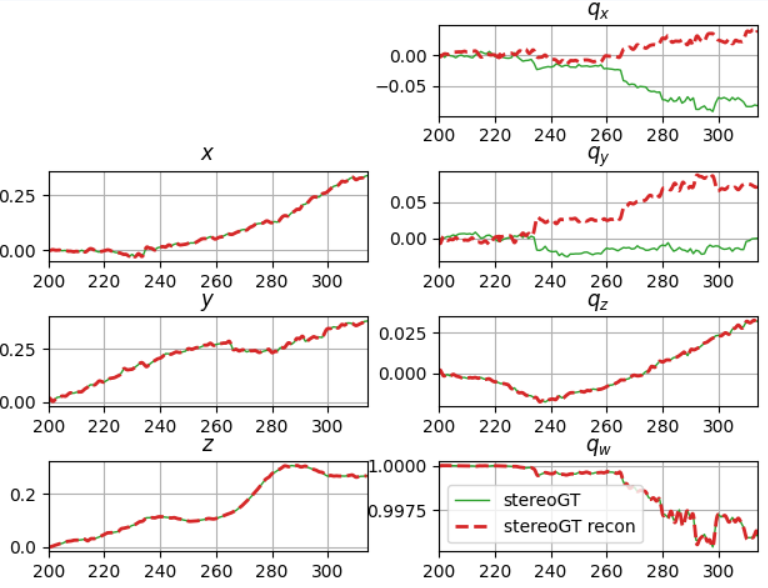
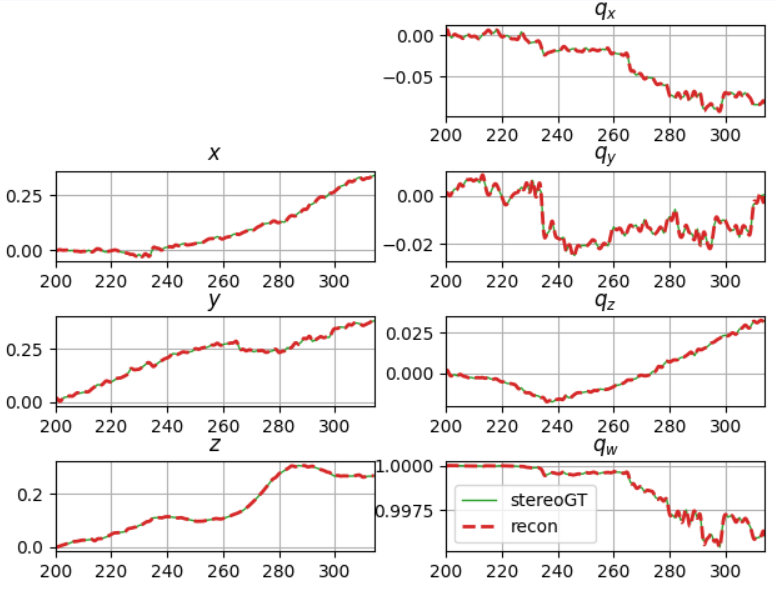
readme: traj. reconstruction works

Changed region(s): [[0.0, 0.0306, 1.0, 1.0]]

diff --git a/readme.md b/readme.md
@@ -26,14 +26,13 @@ python3 plot_imu.py
 
 How they were generated:
 1. Interpolation of the SLAM pose values between frames.
-   [`VisualTraj.interpolate(num_imu_between_frames)`](https://github.com/feudalism/dvi-ekf/blob/291a01af4cdb8d617a4f7a5fb095dc5acd8838bf/Trajectory.py#L161)
+   [`VisualTraj.interpolate(num_imu_between_frames)`](https://github.com/feudalism/dvi-ekf/blob/master/Filter/Trajectory.py#L162)
 2. Numerical differentiation of the interpolated signals.
-   [`ImuTraj._gen_unnoisy_imu()`](https://github.com/feudalism/dvi-ekf/blob/291a01af4cdb8d617a4f7a5fb095dc5acd8838bf/Trajectory.py#L249)
+   [`ImuTraj._gen_unnoisy_imu()`](https://github.com/feudalism/dvi-ekf/blob/master/Filter/Trajectory.py#L247)
     * Straightforward differentiation for x, y, z --> ax, ay, az:
         `np.gradient(interpolated.x, dt)`
-    * Converted quaternions to Euler angles:
-        `rx, ry, rz = quaternion.as_euler_angles(interpolated.quats)`,
-        which are then differentiated to gx, gy, gz
+    * Converted quaternions to Euler angles
+         which are then differentiated to gx, gy, gz
 
 To improve:
 - [ ] add bias
@@ -51,21 +50,19 @@ Aim here was to check whether the generation of fake IMU data was correct.
 Here I tried to reconstruct the trajectory by integrating the
 generated IMU data (without noise).
 
-[`ImuTraj.reconstruct_vis_traj`](https://github.com/feudalism/dvi-ekf/blob/291a01af4cdb8d617a4f7a5fb095dc5acd8838bf/Trajectory.py#L390)
+[`ImuTraj.reconstruct_vis_traj`](https://github.com/feudalism/dvi-ekf/blob/master/Filter/Trajectory.py#L388)
 * Gets initial conditions `IC` (for the integration) from original `VisTraj`.
 * Integrate:
   * `int_vals = scipy.integrate.cumtrapz(diff_vals, t, initial=0) + IC`.
-  * Rotations to quaternions: `quat = quaternion.from_euler_angles(rx, ry, rz)`
+  * Rotations to quaternions
 
 ![](img/traj_recon.PNG)
-
-#### Debugging ...
-
-![](img/traj_recon_debug.PNG)
 
 ### KF propagation only
 Using initial pose from monocular trajectory and propagating using IMU values
 (not noisy).
+
+Currently, propagation equations seem to check out for the quaternions!
 
 ![](img/traj_only_prop.PNG)
 
